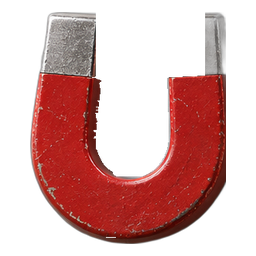
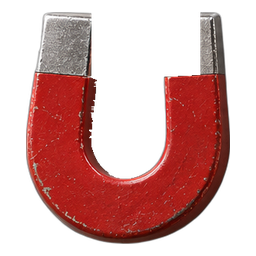
Fix approved horseshoe magnet crop

diff --git a/art/import-approved.py b/art/import-approved.py
@@ -16,7 +16,7 @@ jobs = [
  ('pickups','coin','pickups.png',(55,145,335,425)),
  ('pickups','gem','pickups.png',(785,125,1055,415)),
  ('pickups','heart','pickups.png',(1145,140,1435,415)),
- ('pickups','magnet','pickups.png',(70,515,355,852)),
+ ('pickups','magnet','pickups.png',(42,500,410,875)),
  ('pickups','reach','pickups.png',(465,520,1060,853)),
  ('pickups','slowmo','pickups.png',(1120,510,1450,850)),
  ('pickups','extra','pocket-pal.png',(45,65,530,740)),
